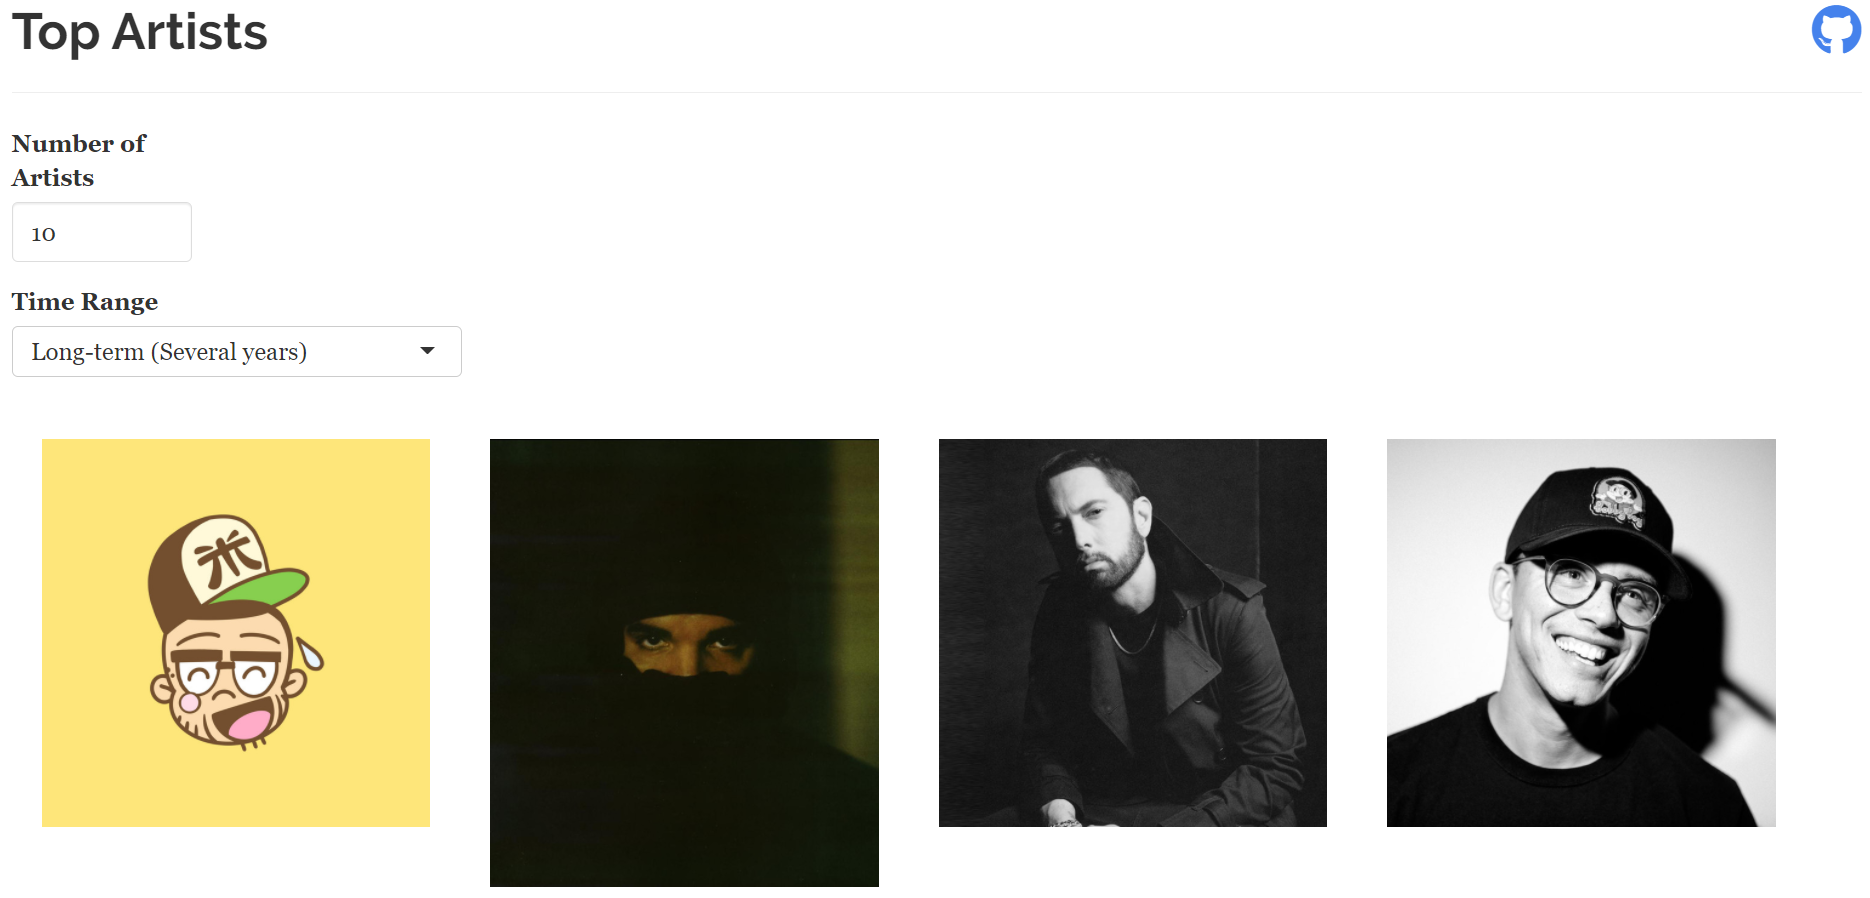
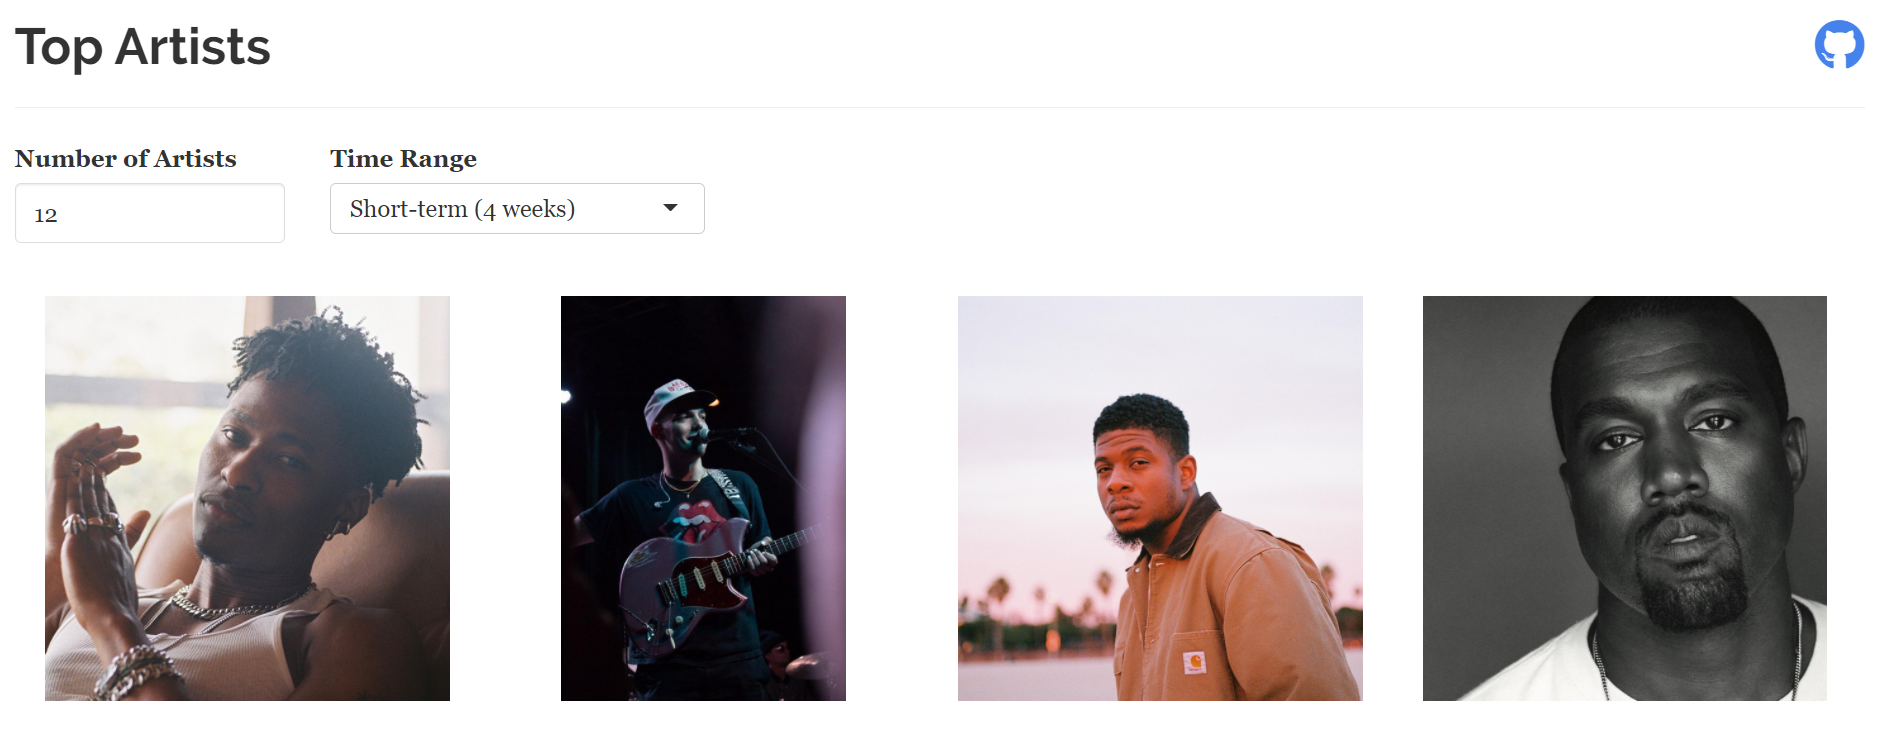
Updating app layout and corresponding images

diff --git a/spotify_dashboards_top_artists/www/styles.css b/spotify_dashboards_top_artists/www/styles.css
@@ -36,6 +36,8 @@
 
 .card-img-top {
     display: block;
-    width: 100%;
-    height: auto;
+    margin-left: auto;
+    margin-right: auto;
+    width: auto;
+    height: 270px;
 }
